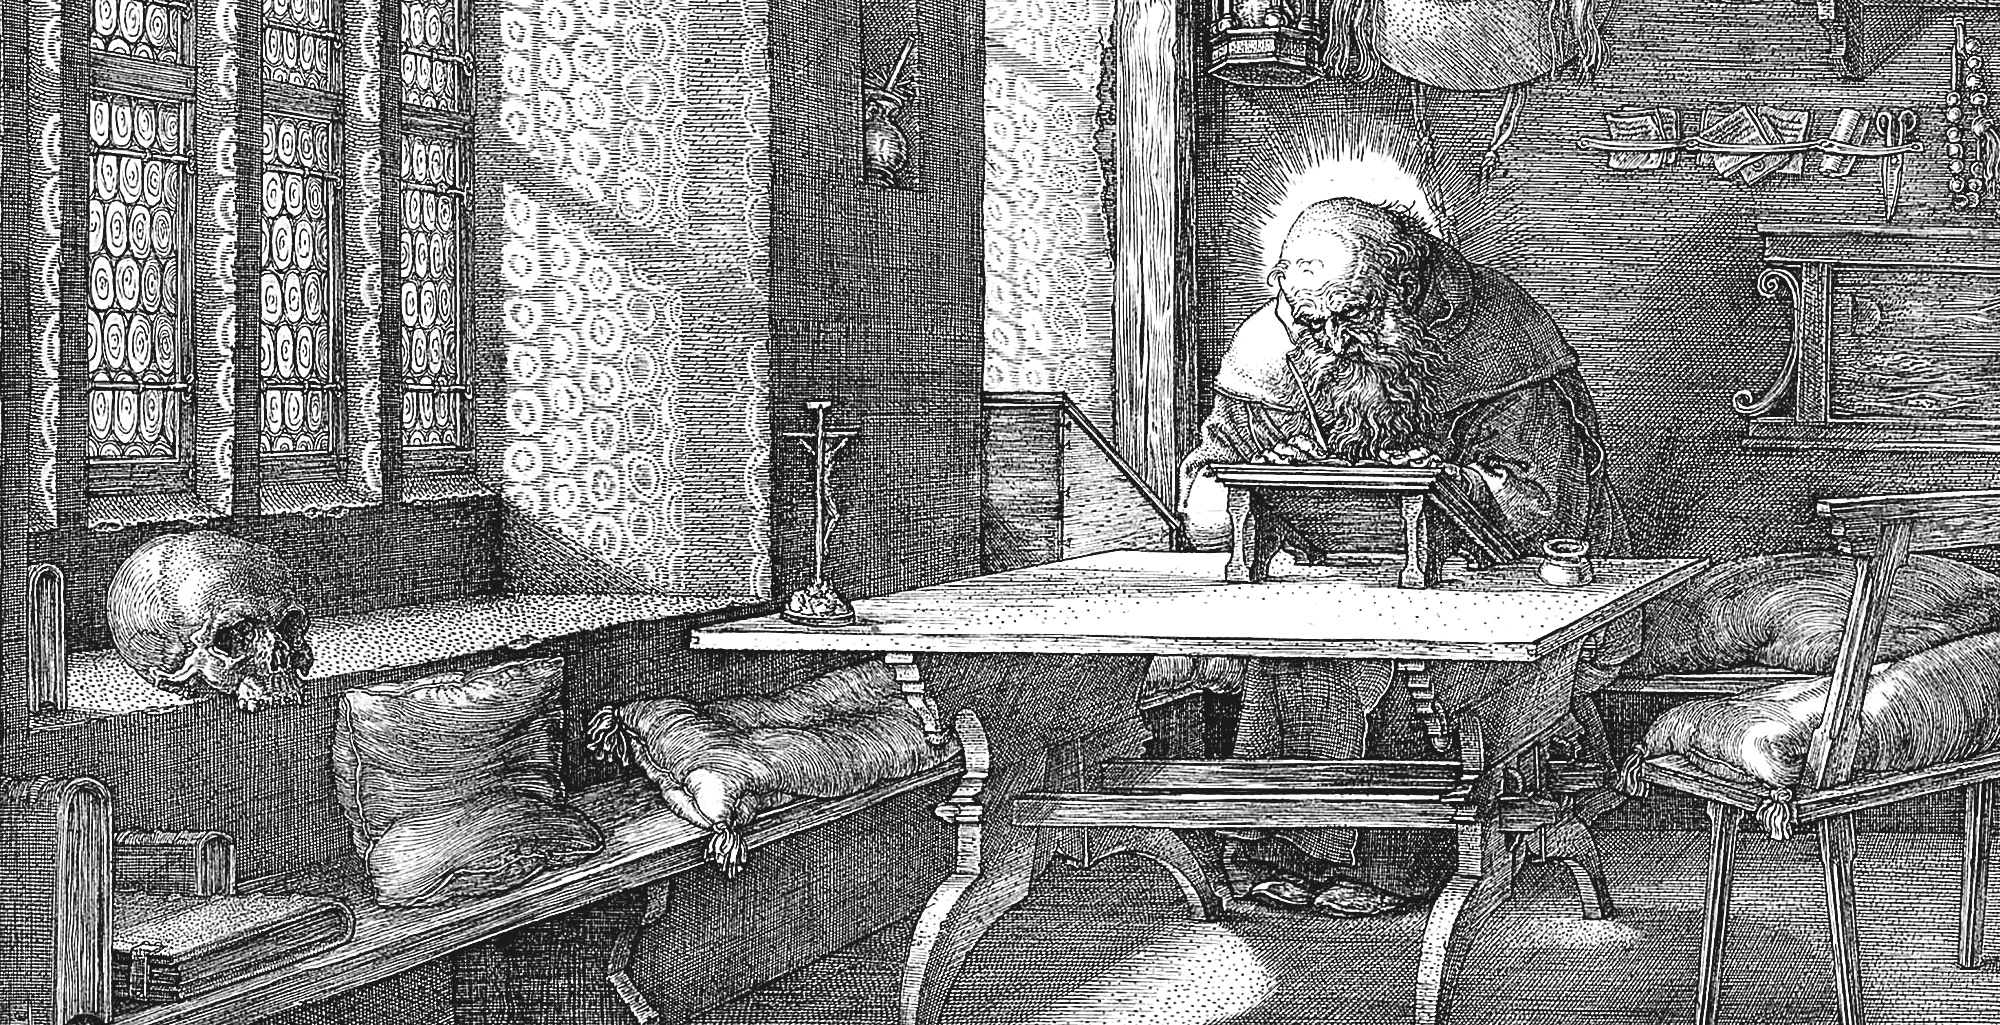
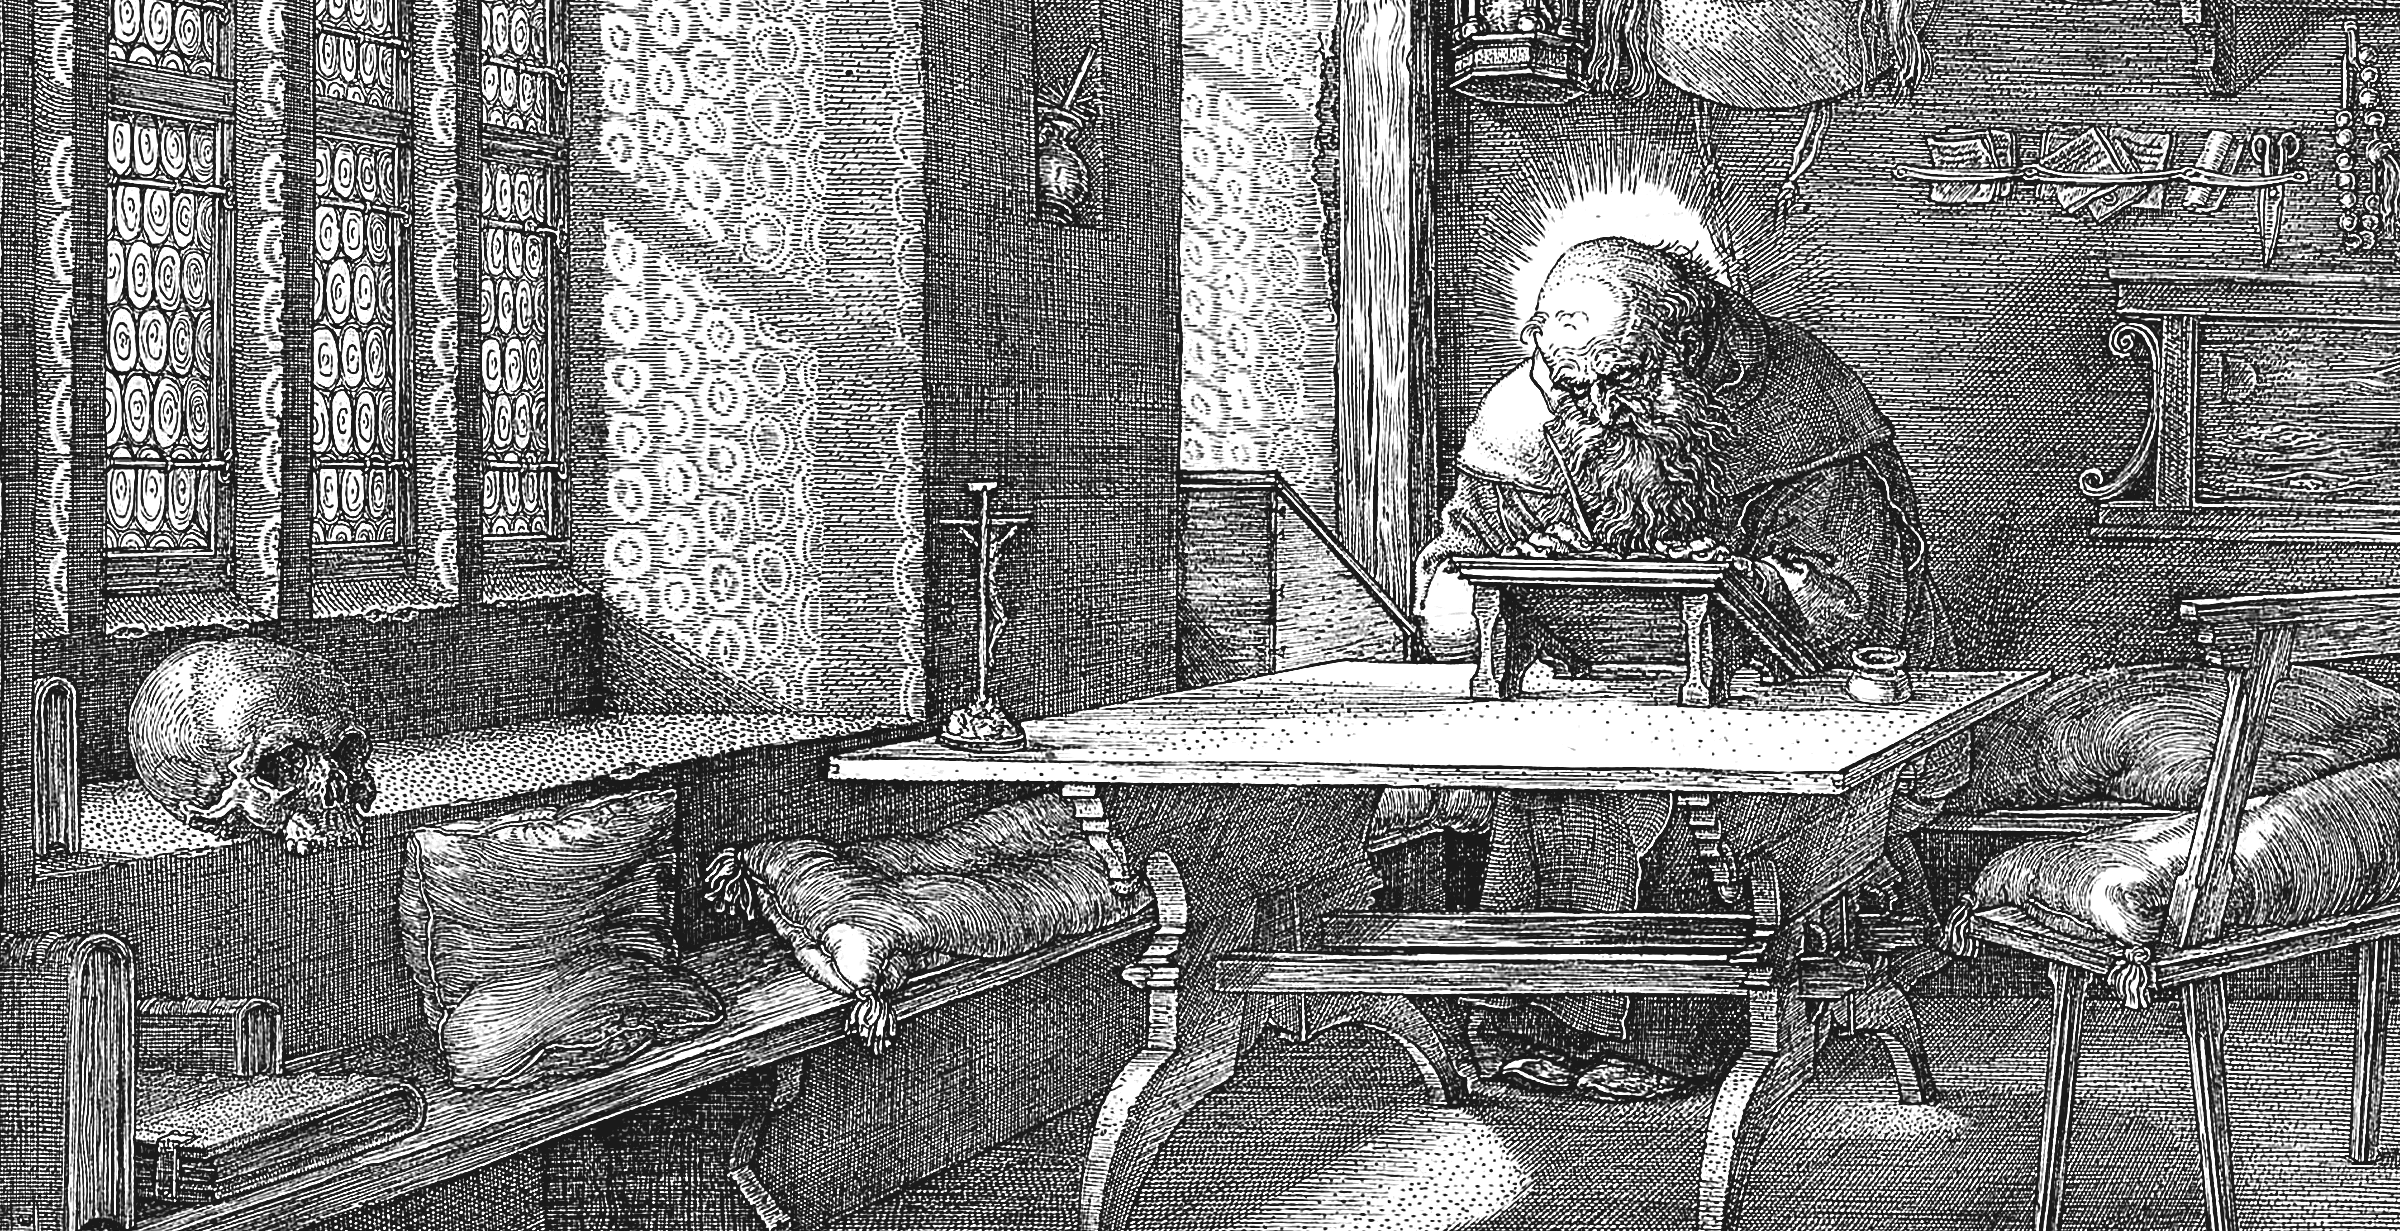
Backdrop: stronger ink, rotating plates, gone for good once writing starts
- Plates re-exported at 2400px, quality 80 (was 2000px/q60), harder
  blacks: full-ink threshold raised to 60, alpha mids lifted (gamma
  0.85), stronger unsharp. Strengths up: in-app 0.12, landing 0.15.
- The per-view art map becomes a pool of eight framings; the plate
  advances randomly (never repeating) whenever the backdrop reappears
  or the view changes.
- Editor: the plate belongs to the blank page. It fades while typing
  the title and leaves permanently once the piece has words; a fresh
  blank document brings a fresh plate.

Changed region(s): [[0.0, 0.0, 1.0, 1.0]]

diff --git a/src/App.js b/src/App.js
@@ -1187,30 +1187,42 @@ function Toasts({ toasts }) {
 // ─── LandingScreen ────────────────────────────────────────────────────────────
 
 // ─── Engraving backdrop ───────────────────────────────────────────────────────
-// One faded public-domain plate per view, framed differently for variation.
-// All render at cover size; only the focal point moves between views.
-const BACKDROP_ART = {
-  editor:      { img: "jerome",      pos: "70% 25%" },   // Dürer, St Jerome writing at his desk
-  feed:        { img: "cosmos",      pos: "center 18%" },// Merian, Basilica Philosophica sunrise
-  reading:     { img: "melencolia",  pos: "center 22%" },// Dürer, Melencolia I
-  search:      { img: "rhinoceros",  pos: "center 42%" },// Dürer, Rhinoceros
-  userProfile: { img: "rhinoceros",  pos: "82% center" },
-  profile:     { img: "melencolia",  pos: "28% 32%" },
-  verify:      { img: "destillatio", pos: "center 32%" },// van der Straet, the distillation workshop
-};
+// A pool of faded public-domain plates, some at more than one framing. The
+// plate advances (randomly, never repeating itself) each time the backdrop
+// reappears or the view changes, so the site never shows the same wall twice
+// in a row.
+const BACKDROP_PLATES = [
+  { img: "jerome",      pos: "70% 25%" },    // Dürer, St Jerome writing at his desk
+  { img: "flammarion",  pos: "center 30%" }, // the Flammarion engraving
+  { img: "flammarion",  pos: "24% 22%" },
+  { img: "melencolia",  pos: "center 22%" }, // Dürer, Melencolia I
+  { img: "cosmos",      pos: "center 18%" }, // Merian, Basilica Philosophica
+  { img: "rhinoceros",  pos: "center 42%" }, // Dürer, Rhinoceros
+  { img: "rhinoceros",  pos: "82% center" },
+  { img: "destillatio", pos: "center 32%" }, // van der Straet, the distillation workshop
+];
 
 function Backdrop({ view, hidden }) {
-  const art = BACKDROP_ART[view];
-  // Keep the last plate while fading out on views without one, so the image
-  // never swaps mid-fade.
-  const lastRef = useRef(art);
-  if (art) lastRef.current = art;
-  const a = art || lastRef.current;
-  if (!a) return null;
+  const [idx, setIdx] = useState(() => Math.floor(Math.random() * BACKDROP_PLATES.length));
+  const prevRef = useRef({ view, hidden: true });
+  useEffect(() => {
+    const prev = prevRef.current;
+    const appearing = !hidden && prev.hidden;
+    const switched  = !hidden && view !== prev.view;
+    if (appearing || switched) {
+      setIdx(i => {
+        let n = Math.floor(Math.random() * BACKDROP_PLATES.length);
+        if (n === i) n = (n + 1) % BACKDROP_PLATES.length;
+        return n;
+      });
+    }
+    prevRef.current = { view, hidden };
+  }, [view, hidden]);
+  const a = BACKDROP_PLATES[idx];
   return (
     <div
       id="backdrop"
-      className={art && !hidden ? "bd-on" : ""}
+      className={hidden ? "" : "bd-on"}
       style={{
         backgroundImage: `url(/backdrops/${a.img}.webp)`,
         backgroundPosition: a.pos,
@@ -4642,8 +4654,11 @@ export default function App() {
 
   return (
     <>
-      {/* ── engraving backdrop (fades with the chrome while typing) ── */}
-      <Backdrop view={view} hidden={showLanding || (isEditor && !menuVisible)} />
+      {/* ── engraving backdrop ──
+          In the editor the plate belongs to the blank page: it fades while the
+          title is being typed and leaves for good once the piece has words.
+          A fresh blank document brings a fresh plate. */}
+      <Backdrop view={view} hidden={showLanding || (isEditor && (hasContent || !menuVisible))} />
 
       {/* ── landing overlay ── */}
       {showLanding && <LandingScreen onDone={() => setShowLanding(false)} />}

diff --git a/src/App.css b/src/App.css
@@ -66,7 +66,7 @@ body {
   opacity: 0;
   transition: opacity 1.6s ease;
 }
-#backdrop.bd-on { opacity: var(--backdrop-alpha, 0.07); }
+#backdrop.bd-on { opacity: var(--backdrop-alpha, 0.12); }
 
 /* ─── Landing ─────────────────────────────────────────────────────────────── */
 #landing {
@@ -92,7 +92,7 @@ body {
   background-position: center 30%;
   background-size: cover;
   background-repeat: no-repeat;
-  opacity: 0.095;
+  opacity: 0.15;
   pointer-events: none;
 }
 
